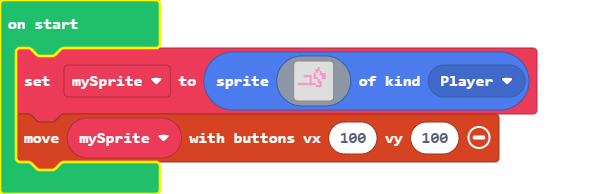
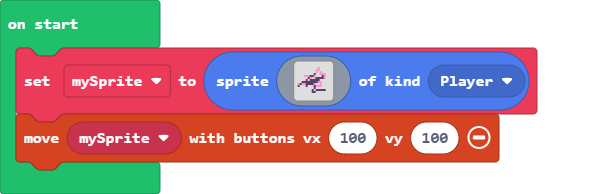
addd purple to sprite

diff --git a/main.ts b/main.ts
@@ -3,16 +3,16 @@ let mySprite = sprites.create(img`
     . . . . . . . . . . 3 . . . . . 
     . . . . . . . . . 3 3 . . . . . 
     . . . . . . . . . 3 . 3 . . . . 
-    . . . . . . . . 3 . . 3 3 3 . . 
-    . . . 3 3 3 3 . 3 . . . 3 3 . . 
-    . . . . . . 3 . 3 3 . . 3 3 . . 
-    . . . . . . 3 . . . 3 . . . . . 
-    . . . . . . 3 . . . 3 3 . . . . 
-    3 3 3 3 3 3 3 3 3 . . 3 . . . . 
-    . . . . . . . . . 3 3 3 . . . . 
-    . . . . . . . . . . . . . . . . 
-    . . . . . . . . . . . . . . . . 
-    . . . . . . . . . . . . . . . . 
+    . . . . . . . . c . . 3 3 3 . . 
+    . . . 3 3 3 c c 3 . . . c 3 . . 
+    . . . . . c 3 . 3 c c c c 3 . . 
+    . . . . c . c c c c c . . . . . 
+    . . c c c c c c c c 3 3 . . . . 
+    3 c 3 3 c c c c 3 . . 3 . . . . 
+    c . . . c . . . c 3 3 3 . . . . 
+    . . . . . . . . c . . . . . . . 
+    . . . . . . . c . c c c c c . . 
+    . . . . . . . c c . . . . . . . 
     . . . . . . . . . . . . . . . . 
     . . . . . . . . . . . . . . . . 
     `, SpriteKind.Player)
